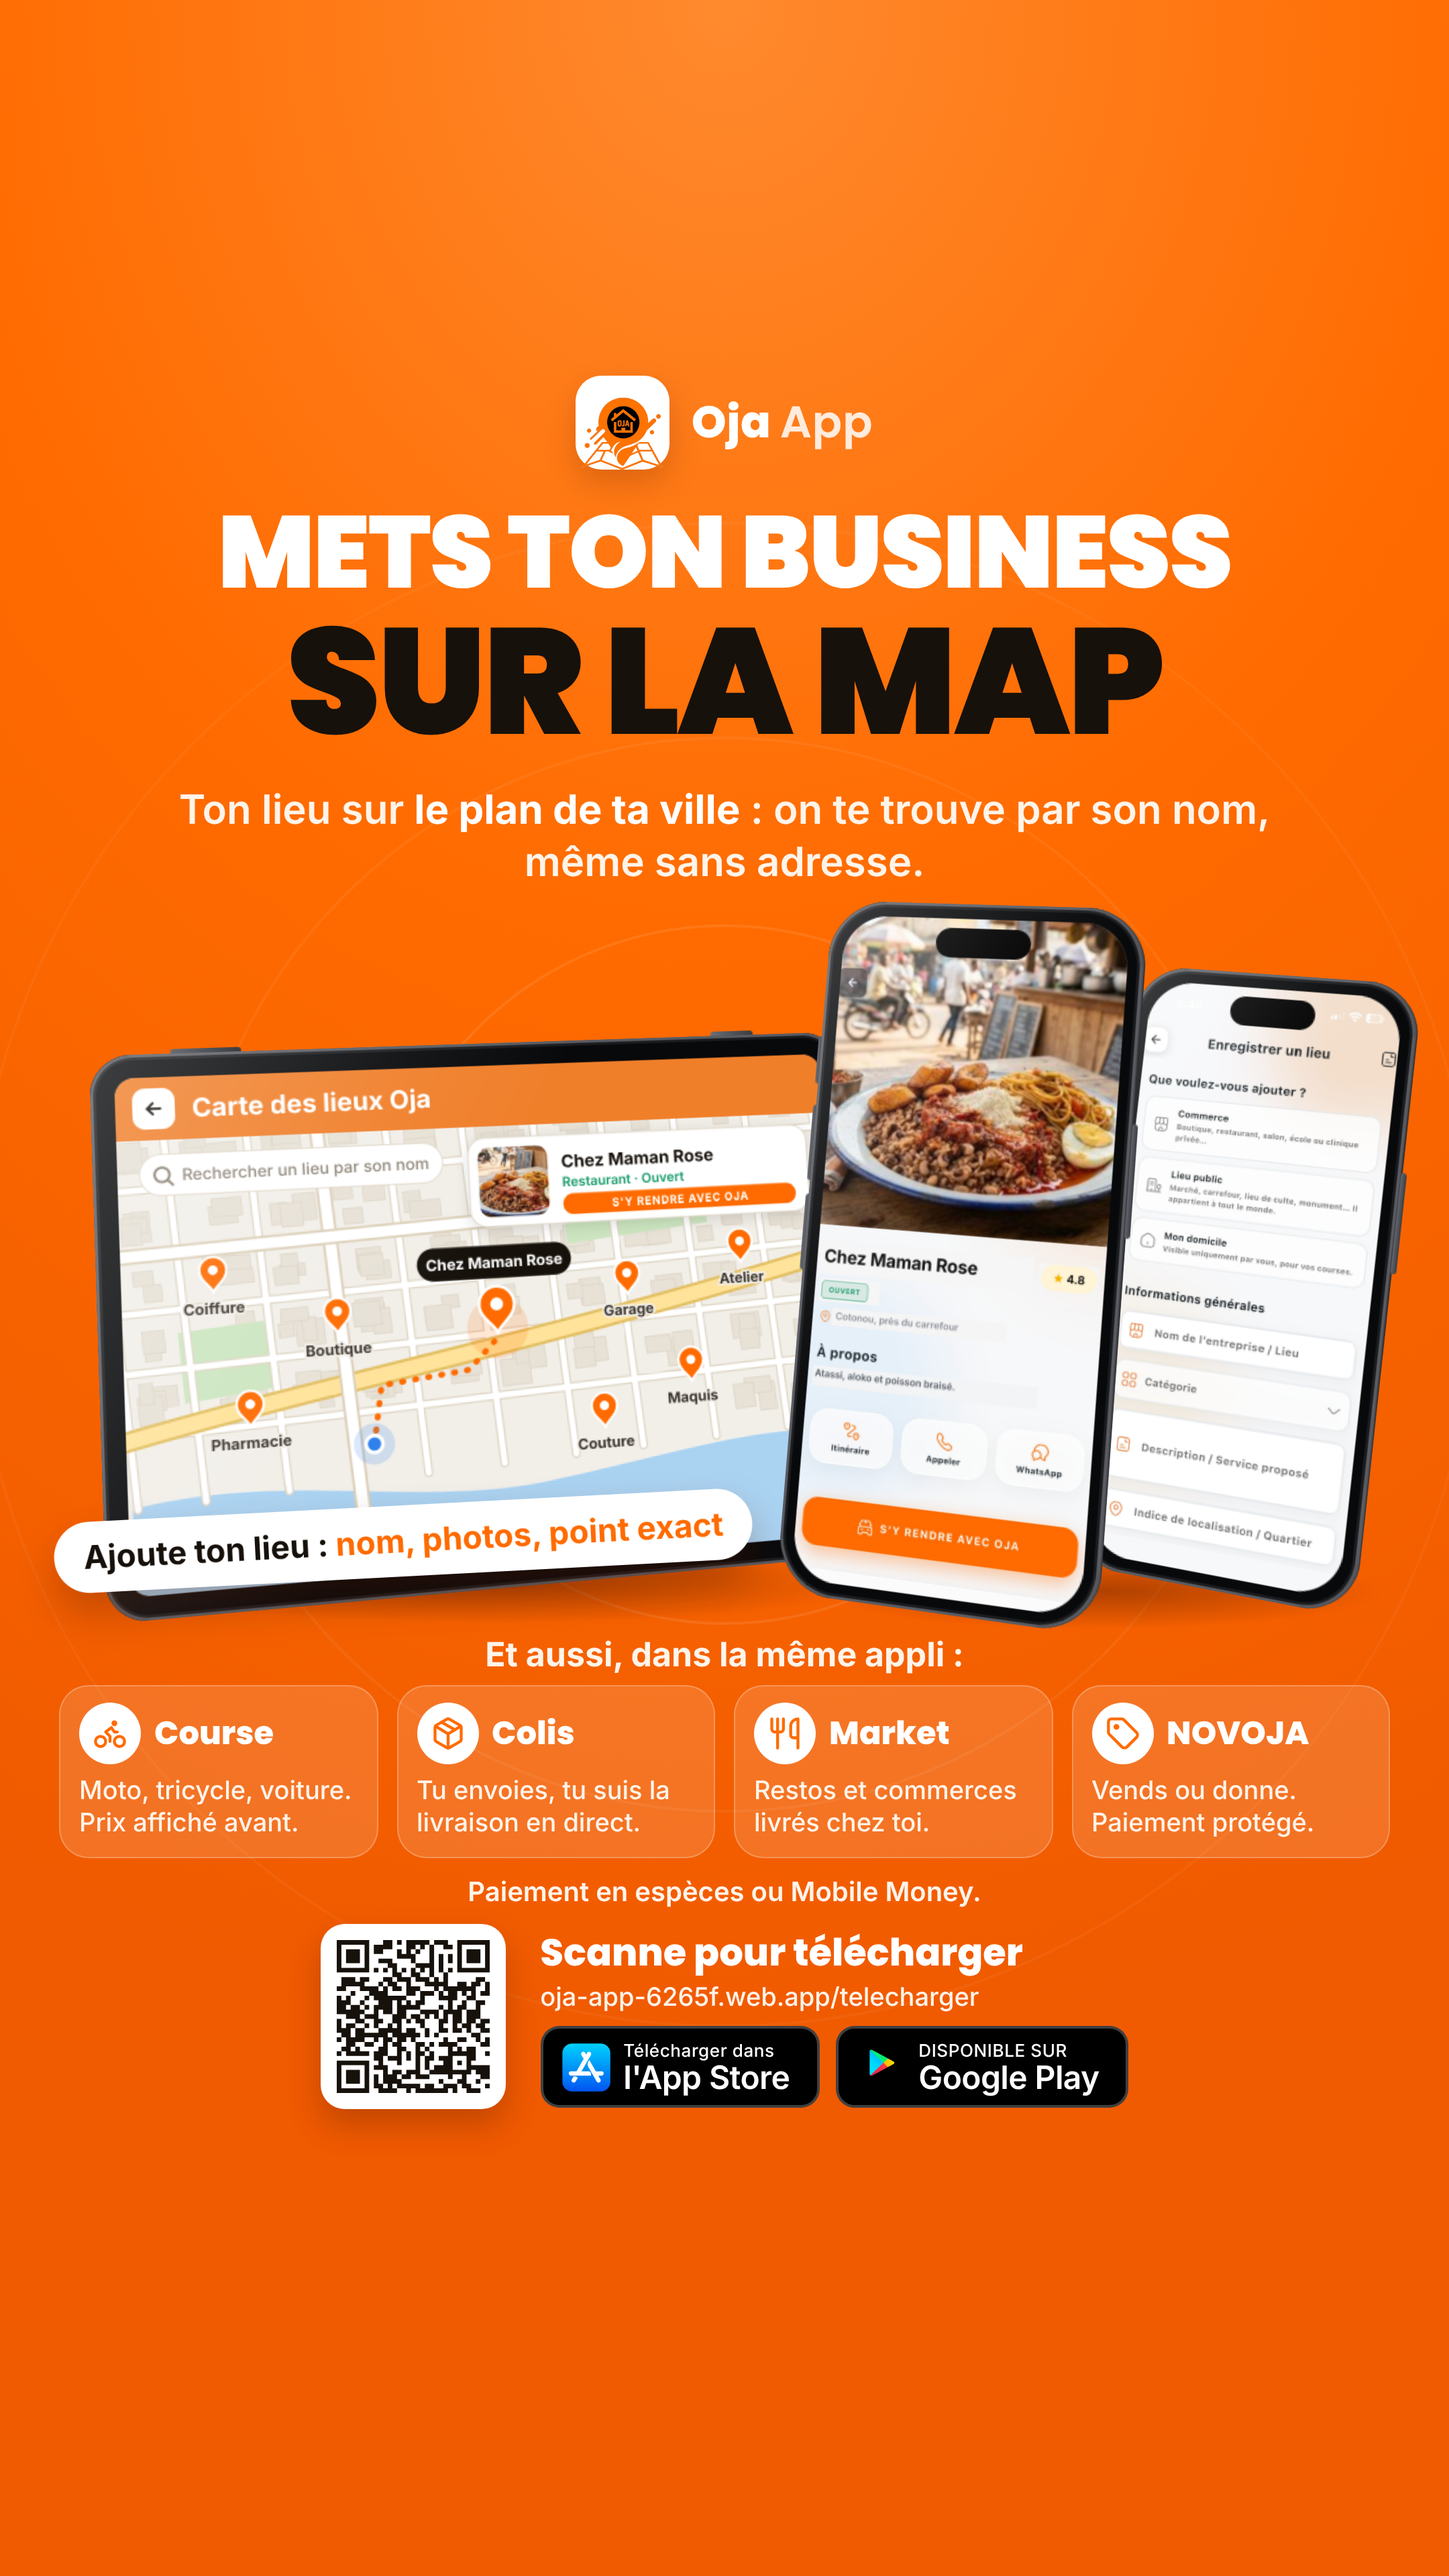
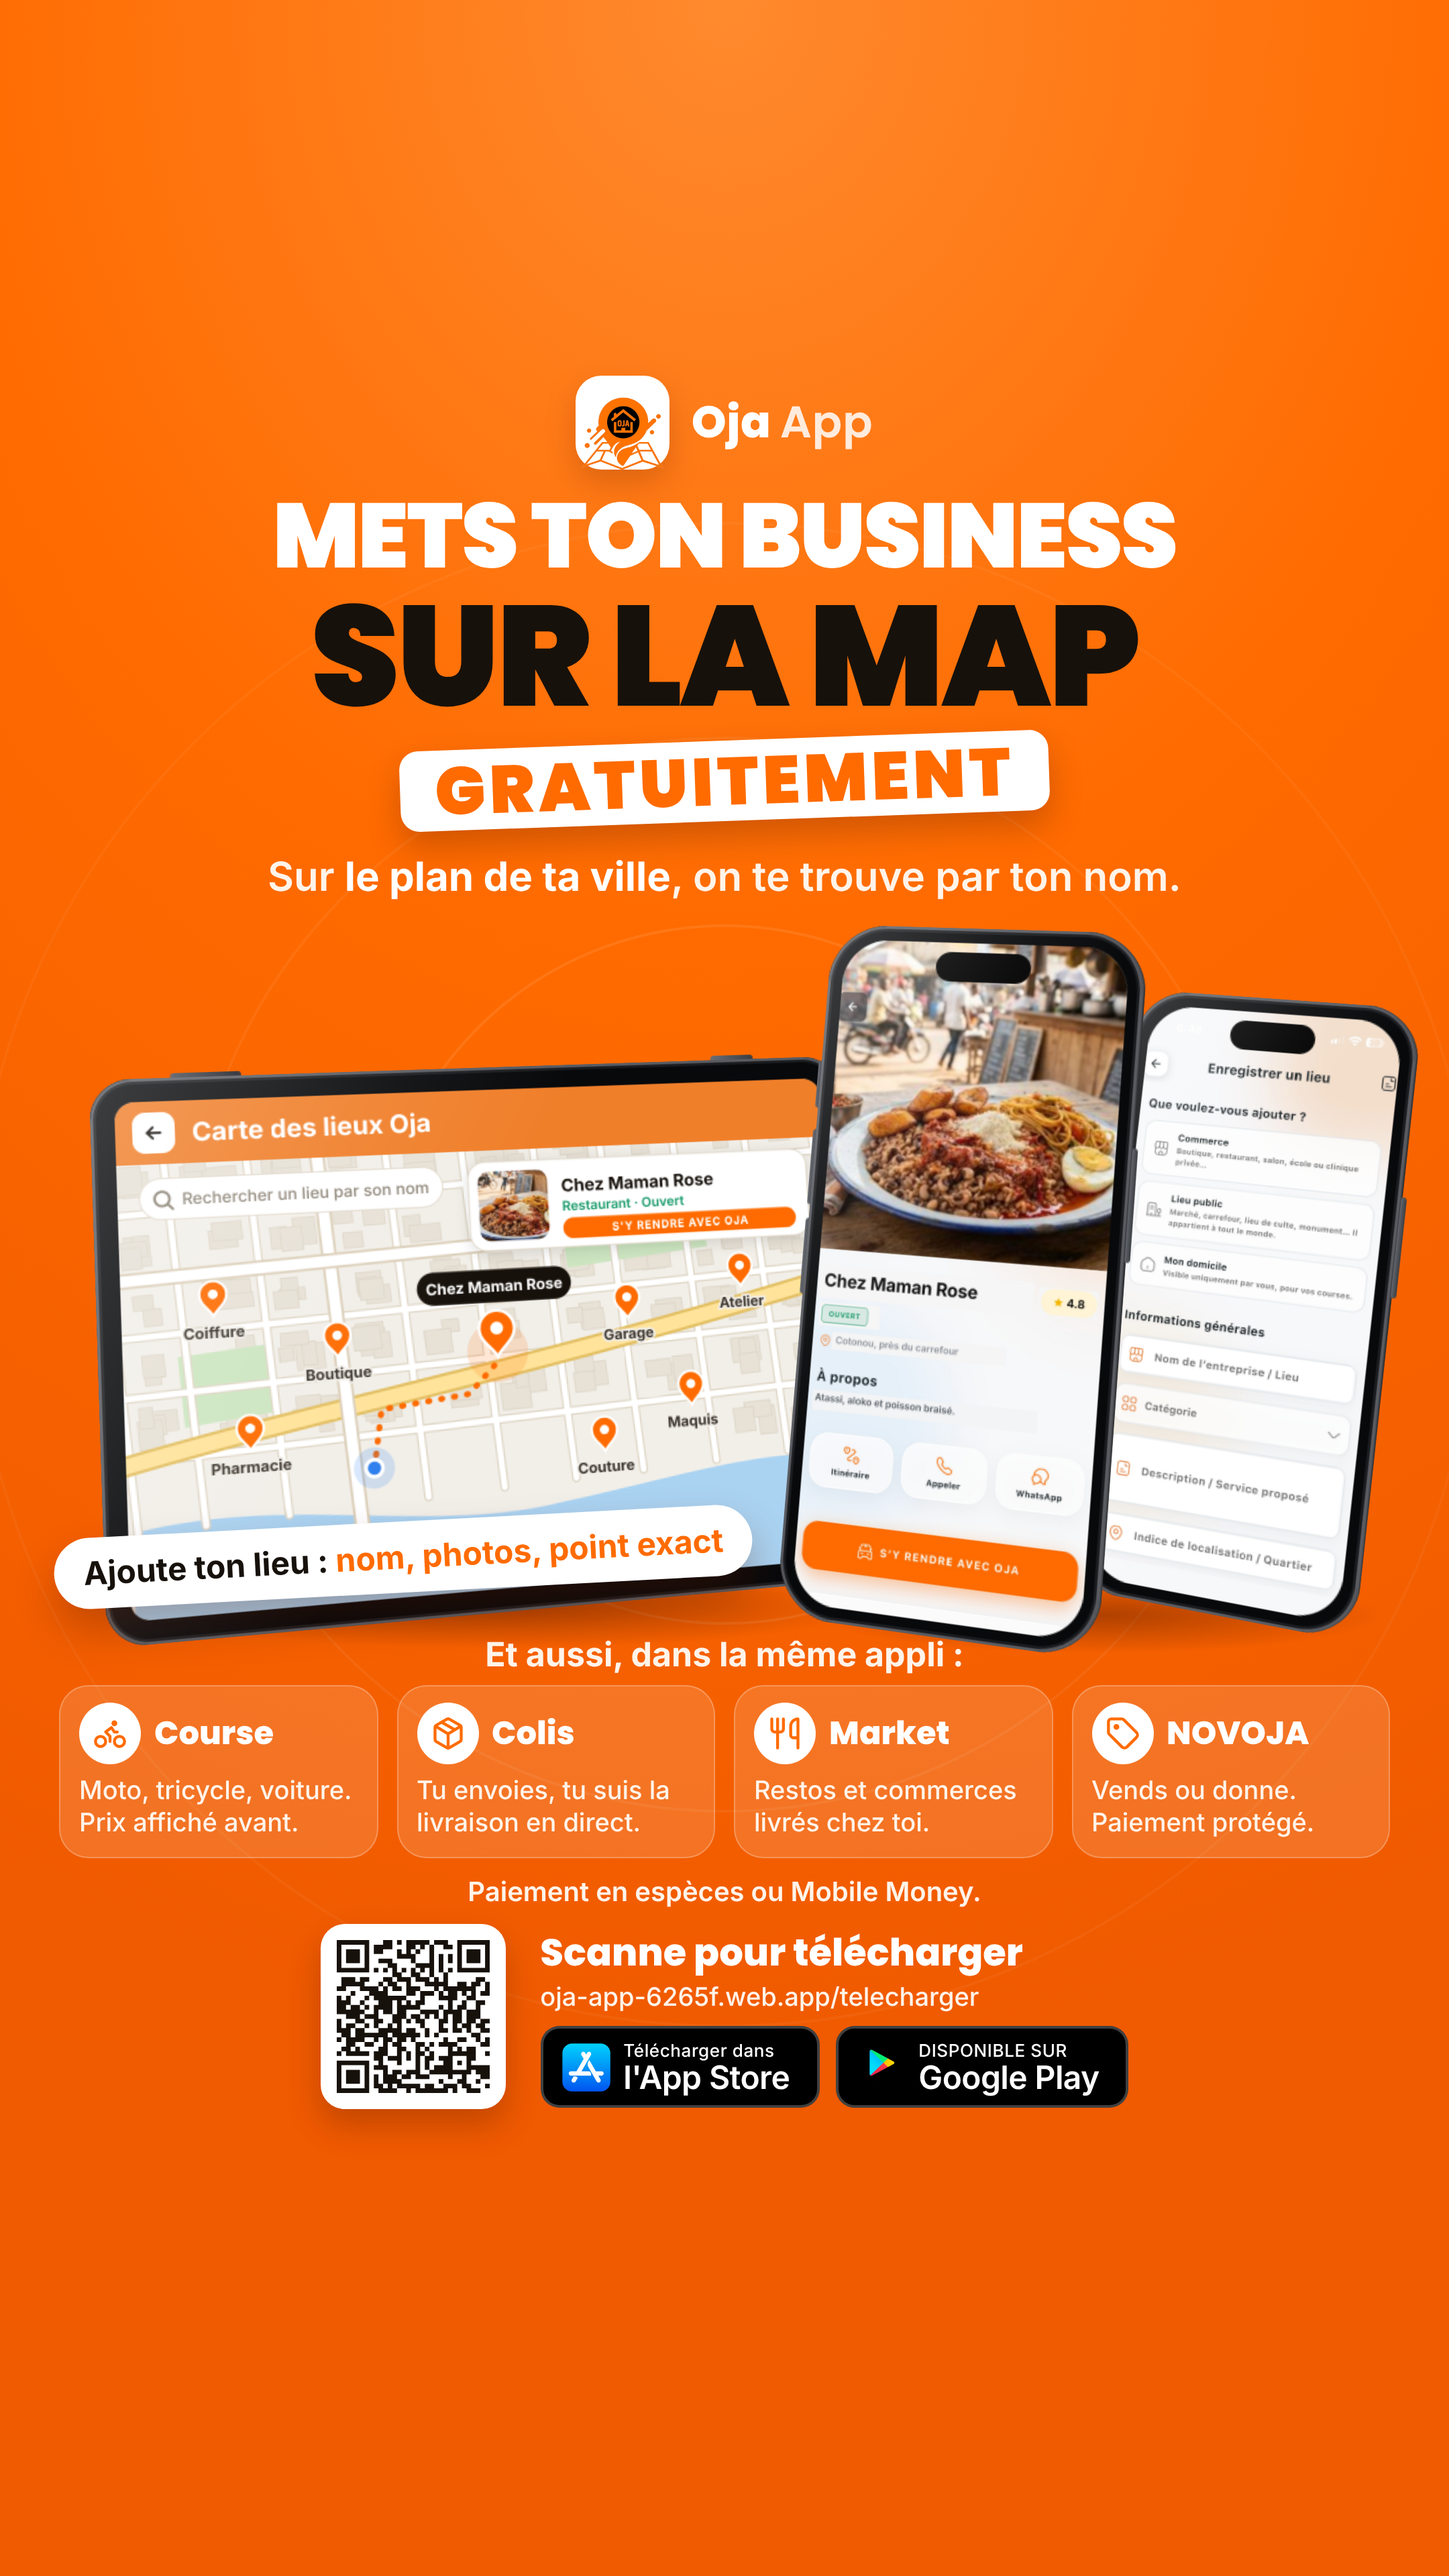
Pub Facebook : « gratuitement » ajouté au titre de l'image
Claude-Session: https://claude.ai/code/session_013hXBLf1amJ3CRzgYm5RBGS

Changed region(s): [[0.031, 0.1875, 0.9926, 0.6562]]

diff --git a/motion/pub_facebook.html b/motion/pub_facebook.html
@@ -31,13 +31,16 @@ svg.bg { position: absolute; left: 0; top: 0; width: 1080px; height: 1330px; }
 .icon img { width: 118%; height: 118%; object-fit: contain; margin-top: 6%; }
 .brand b { font: 800 33px 'Poppins'; letter-spacing: .3px; }
 .brand b span { font-weight: 600; opacity: .85; }
-h1 { position: absolute; top: 124px; left: 0; right: 0; text-align: center; font: 900 76px/1 'Poppins'; letter-spacing: -1.2px; text-transform: uppercase; }
-h1 .dark { display: block; color: var(--ink); font-size: 112px; letter-spacing: -2px; margin-top: 2px; }
-.sub { position: absolute; top: 334px; left: 100px; right: 100px; text-align: center; font: 600 30px/1.3 'Inter'; color: var(--cream); }
+h1 { position: absolute; top: 116px; left: 0; right: 0; text-align: center; font: 900 68px/1 'Poppins'; letter-spacing: -1.2px; text-transform: uppercase; }
+h1 .dark { display: block; color: var(--ink); font-size: 106px; letter-spacing: -2px; margin-top: 2px; }
+/* « gratuitement » (Derrick, 9 Nov 2026: adding your place costs nothing; « gratuit » is said only about that) */
+h1 .free { display: inline-block; margin-top: 10px; padding: 6px 26px 4px; background: #fff; color: var(--or); border-radius: 14px;
+  font-size: 50px; letter-spacing: 3px; transform: rotate(-2deg); box-shadow: 0 12px 24px rgba(90, 25, 0, .28); }
+.sub { position: absolute; top: 384px; left: 100px; right: 100px; text-align: center; font: 600 30px/1.3 'Inter'; color: var(--cream); }
 .sub b { color: #fff; font-weight: 800; }
 
 /* ---------- the devices, in 3D ---------- */
-.stage { position: absolute; left: 0; top: 422px; width: 1080px; height: 540px; perspective: 1700px; perspective-origin: 560px 120px; }
+.stage { position: absolute; left: 0; top: 440px; width: 1080px; height: 540px; perspective: 1700px; perspective-origin: 560px 120px; }
 .dev { position: absolute; transform-style: preserve-3d; }
 .dev .layer { position: absolute; inset: 0; border-radius: inherit; }
 .dev .front { position: absolute; inset: 0; border-radius: inherit; background: #08090B; overflow: hidden;
@@ -61,7 +64,7 @@ h1 .dark { display: block; color: var(--ink); font-size: 112px; letter-spacing: 
 .mapbar i { width: 30px; height: 30px; border-radius: 9px; background: #fff; display: grid; place-items: center; }
 .mapbar b { font: 700 19px 'Inter'; color: #fff; }
 .tab svg.map { position: absolute; left: 0; top: 46px; width: 532px; height: 324px; }
-.tag { position: absolute; left: 40px; top: 872px; z-index: 5; background: #fff; color: var(--ink); border-radius: 999px; padding: 12px 22px;
+.tag { position: absolute; left: 40px; top: 884px; z-index: 5; background: #fff; color: var(--ink); border-radius: 999px; padding: 12px 22px;
   font: 700 24px 'Inter'; white-space: nowrap; transform: rotate(-3deg); box-shadow: 0 16px 30px rgba(90, 25, 0, .3); }
 .tag em { font-style: normal; color: var(--or); }
 
@@ -98,8 +101,8 @@ h1 .dark { display: block; color: var(--ink); font-size: 112px; letter-spacing: 
     </g>
   </svg>
   <div class="brand"><div class="icon"><img src="../video1/assets/logo-oja-carte.png" alt=""></div><b>Oja <span>App</span></b></div>
-  <h1>Mets ton business<span class="dark">sur la map</span></h1>
-  <p class="sub">Ton lieu sur <b>le plan de ta ville</b> : on te trouve par son nom, même sans adresse.</p>
+  <h1>Mets ton business<span class="dark">sur la map</span><span class="free">gratuitement</span></h1>
+  <p class="sub">Sur <b>le plan de ta ville</b>, on te trouve par ton nom.</p>
 
   <div class="stage">
     <div class="ground" style="left:90px; top:478px; width:560px; height:60px"></div>

diff --git a/motion/README.md b/motion/README.md
@@ -1105,8 +1105,8 @@ Consignes de Derrick (9 novembre 2026), reprises dans `marketing/kit/09-regles-e
 
 **Contenu de l'image :**
 - **En premier, la map :**
-  - le titre « Mets ton business sur la map » ;
-  - la phrase « Ton lieu sur le plan de ta ville : on te trouve par son nom, même sans adresse. » ;
+  - le titre « Mets ton business sur la map », suivi de « gratuitement » sur un bandeau blanc. Ajouter son lieu ne coûte rien, et c'est le seul cas où l'on dit « gratuit » ;
+  - la phrase « Sur le plan de ta ville, on te trouve par ton nom. » ;
   - une tablette qui affiche « Carte des lieux Oja ». La map est dessinée, parce que la vraie map montre les commerces d'autres personnes. On y voit des rues avec des bâtiments, une lagune, des épingles (Coiffure, Atelier, Boutique, Maquis, Pharmacie, Garage, Couture), la recherche « Rechercher un lieu par son nom », « Vous êtes ici », le chemin jusqu'à « Chez Maman Rose » (lieu fictif) et sa fiche avec « S'y rendre avec OJA » ;
   - deux téléphones avec les vrais écrans : la fiche « Chez Maman Rose » (`video3/assets/app/fiche.jpg`) et « Enregistrer un lieu » (`ajout.jpg`) ;
   - la pastille « Ajoute ton lieu : nom, photos, point exact ».
